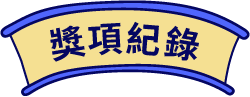
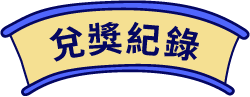
獎項紀錄>兌獎紀錄

Changed region(s): [[0.196, 0.2165, 0.504, 0.6495]]

diff --git a/record.html b/record.html
@@ -14,7 +14,7 @@
     <link rel="stylesheet" href="css/style.css">
     <link rel="stylesheet" href="css/animate-style.css">
     <link rel="stylesheet" href="css/gotop.css">
-    <title>獎項紀錄-1111週年慶│幸運一把抓</title>
+    <title>兌獎紀錄-1111週年慶│幸運一把抓</title>
 </head>
 
 <body>
@@ -57,10 +57,10 @@
                                             </a>
                                         </li>
                                         <li class="nav-item active">
-                                            <a class="nav-link" href="record.html" title="獎項紀錄" alt="獎項紀錄" style="background-image:url('images/btn-record-a.png') ;">
-                                                <span>獎項紀錄</span>
-                                                <img src="images/btn-record.png" title="獎項紀錄" alt="獎項紀錄" />
-                                                <img src="images/btn-record-h.png" title="獎項紀錄" alt="獎項紀錄" />
+                                            <a class="nav-link" href="record.html" title="兌獎紀錄" alt="兌獎紀錄" style="background-image:url('images/btn-record-a.png') ;">
+                                                <span>兌獎紀錄</span>
+                                                <img src="images/btn-record.png" title="兌獎紀錄" alt="兌獎紀錄" />
+                                                <img src="images/btn-record-h.png" title="兌獎紀錄" alt="兌獎紀錄" />
                                                 <span class="sr-only">(current)</span>
                                             </a>
                                         </li>
@@ -128,7 +128,7 @@
                     <div class="row">
                         <div class="col-12">
                             <div class="section-area record-title">
-                                <h3 class="section-title" style="background-image: url('images/title-c-00.png');">獎項紀錄</h3>
+                                <h3 class="section-title" style="background-image: url('images/title-c-00.png');">兌獎紀錄</h3>
                                 <div class="login-block">
                                     <a class="btn" href="#view" onclick="goLogin();" data-toggle="collapse" id="viewlogin" title="登入" alt="登入">立即登入查詢</a>
                                 </div>
@@ -140,7 +140,7 @@
                     <section class="row">
                         <div class="col-12">
                             <div class="section-area record-title">
-                                <h3 class="section-title" style="background-image: url('images/title-c-01.png');">獎項紀錄 公司名稱</h3>
+                                <h3 class="section-title" style="background-image: url('images/title-c-01.png');">兌獎紀錄 公司名稱</h3>
                             </div>
                             <div class="record-company">
                                 <span>1111人力銀行(全球華人股份有限公司)</span>
@@ -150,7 +150,7 @@
                     <section class="row">
                         <div class="col-12">
                             <div class="section-area record-title">
-                                <h3 class="section-title" style="background-image: url('images/title-c-02.png');">登記抽大獎 獎項紀錄</h3>
+                                <h3 class="section-title" style="background-image: url('images/title-c-02.png');">登記抽大獎 兌獎紀錄</h3>
                             </div>
                             <table class="table-area table-a">
                                 <thead>
@@ -192,7 +192,7 @@
                     <section class="row">
                         <div class="col-12">
                             <div class="section-area record-title">
-                                <h3 class="section-title" style="background-image: url('images/title-c-03.png');">選好禮 獎項紀錄</h3>
+                                <h3 class="section-title" style="background-image: url('images/title-c-03.png');">選好禮 兌獎紀錄</h3>
                             </div>
                             <table class="table-area table-b">
                                 <thead>

diff --git a/announcement.html b/announcement.html
@@ -57,10 +57,10 @@
                                             </a>
                                         </li>
                                         <li class="nav-item">
-                                            <a class="nav-link" href="record.html" title="獎項紀錄" alt="獎項紀錄" style="background-image:url('images/btn-record-a.png') ;">
-                                                <span>獎項紀錄</span>
-                                                <img src="images/btn-record.png" title="獎項紀錄" alt="獎項紀錄" />
-                                                <img src="images/btn-record-h.png" title="獎項紀錄" alt="獎項紀錄" />
+                                            <a class="nav-link" href="record.html" title="兌獎紀錄" alt="兌獎紀錄" style="background-image:url('images/btn-record-a.png') ;">
+                                                <span>兌獎紀錄</span>
+                                                <img src="images/btn-record.png" title="兌獎紀錄" alt="兌獎紀錄" />
+                                                <img src="images/btn-record-h.png" title="兌獎紀錄" alt="兌獎紀錄" />
                                             </a>
                                         </li>
                                         <li class="nav-item active">
@@ -128,7 +128,7 @@
                     <div class="row">
                         <div class="col-12">
                             <div class="section-area record-title">
-                                <h3 class="section-title" style="background-image: url('images/title-d-01.png');">登記抽大獎 獎項紀錄</h3>
+                                <h3 class="section-title" style="background-image: url('images/title-d-01.png');">得獎公告</h3>
                             </div>
                             <table class="table-area table-c">
                                 <thead>

diff --git a/product-intro-a.html b/product-intro-a.html
@@ -58,10 +58,10 @@
                                             </a>
                                         </li>
                                         <li class="nav-item">
-                                            <a class="nav-link" href="record.html" title="獎項紀錄" alt="獎項紀錄" style="background-image:url('images/btn-record-a.png') ;">
-                                                <span>獎項紀錄</span>
-                                                <img src="images/btn-record.png" title="獎項紀錄" alt="獎項紀錄" />
-                                                <img src="images/btn-record-h.png" title="獎項紀錄" alt="獎項紀錄" />
+                                            <a class="nav-link" href="record.html" title="兌獎紀錄" alt="兌獎紀錄" style="background-image:url('images/btn-record-a.png') ;">
+                                                <span>兌獎紀錄</span>
+                                                <img src="images/btn-record.png" title="兌獎紀錄" alt="兌獎紀錄" />
+                                                <img src="images/btn-record-h.png" title="兌獎紀錄" alt="兌獎紀錄" />
                                             </a>
                                         </li>
                                         <li class="nav-item">
@@ -422,7 +422,7 @@
                     </div>
                     <div class="modal-footer">
                         <a class="btn btn-secondary btn-leave" data-dismiss="modal">稍後填寫</a>
-                        <a href="record.html" class="btn register">獎項紀錄</a>
+                        <a href="record.html" class="btn register">兌獎紀錄</a>
                         <a href="record.html#recipient" class="btn exchange">填寫資料</a>
                     </div>
                 </div>

diff --git a/product-intro-b.html b/product-intro-b.html
@@ -58,10 +58,10 @@
                                             </a>
                                         </li>
                                         <li class="nav-item">
-                                            <a class="nav-link" href="record.html" title="獎項紀錄" alt="獎項紀錄" style="background-image:url('images/btn-record-a.png') ;">
-                                                <span>獎項紀錄</span>
-                                                <img src="images/btn-record.png" title="獎項紀錄" alt="獎項紀錄" />
-                                                <img src="images/btn-record-h.png" title="獎項紀錄" alt="獎項紀錄" />
+                                            <a class="nav-link" href="record.html" title="兌獎紀錄" alt="兌獎紀錄" style="background-image:url('images/btn-record-a.png') ;">
+                                                <span>兌獎紀錄</span>
+                                                <img src="images/btn-record.png" title="兌獎紀錄" alt="兌獎紀錄" />
+                                                <img src="images/btn-record-h.png" title="兌獎紀錄" alt="兌獎紀錄" />
                                             </a>
                                         </li>
                                         <li class="nav-item">
@@ -423,6 +423,7 @@
                     </div>
                     <div class="modal-footer">
                         <a class="btn btn-secondary btn-leave" data-dismiss="modal">稍後填寫</a>
+                        <a href="record.html" class="btn register">兌獎紀錄</a>
                         <a href="record.html#recipient" class="btn btn-primary">填寫資料</a>
                     </div>
                 </div>

diff --git a/awards.html b/awards.html
@@ -58,10 +58,10 @@
                                             </a>
                                         </li>
                                         <li class="nav-item">
-                                            <a class="nav-link" href="record.html" title="獎項紀錄" alt="獎項紀錄" style="background-image:url('images/btn-record-a.png') ;">
-                                                <span>獎項紀錄</span>
-                                                <img src="images/btn-record.png" title="獎項紀錄" alt="獎項紀錄" />
-                                                <img src="images/btn-record-h.png" title="獎項紀錄" alt="獎項紀錄" />
+                                            <a class="nav-link" href="record.html" title="兌獎紀錄" alt="兌獎紀錄" style="background-image:url('images/btn-record-a.png') ;">
+                                                <span>兌獎紀錄</span>
+                                                <img src="images/btn-record.png" title="兌獎紀錄" alt="兌獎紀錄" />
+                                                <img src="images/btn-record-h.png" title="兌獎紀錄" alt="兌獎紀錄" />
                                             </a>
                                         </li>
                                         <li class="nav-item">

diff --git a/directions.html b/directions.html
@@ -58,10 +58,10 @@
                                             </a>
                                         </li>
                                         <li class="nav-item">
-                                            <a class="nav-link" href="record.html" title="獎項紀錄" alt="獎項紀錄" style="background-image:url('images/btn-record-a.png') ;">
-                                                <span>獎項紀錄</span>
-                                                <img src="images/btn-record.png" title="獎項紀錄" alt="獎項紀錄" />
-                                                <img src="images/btn-record-h.png" title="獎項紀錄" alt="獎項紀錄" />
+                                            <a class="nav-link" href="record.html" title="兌獎紀錄" alt="兌獎紀錄" style="background-image:url('images/btn-record-a.png') ;">
+                                                <span>兌獎紀錄</span>
+                                                <img src="images/btn-record.png" title="兌獎紀錄" alt="兌獎紀錄" />
+                                                <img src="images/btn-record-h.png" title="兌獎紀錄" alt="兌獎紀錄" />
                                             </a>
                                         </li>
                                         <li class="nav-item">

diff --git a/index.html b/index.html
@@ -59,10 +59,10 @@
                                             </a>
                                         </li>
                                         <li class="nav-item">
-                                            <a class="nav-link" href="record.html" title="獎項紀錄" alt="獎項紀錄" style="background-image:url('images/btn-record-a.png') ;">
-                                                <span>獎項紀錄</span>
-                                                <img src="images/btn-record.png" title="獎項紀錄" alt="獎項紀錄" />
-                                                <img src="images/btn-record-h.png" title="獎項紀錄" alt="獎項紀錄" />
+                                            <a class="nav-link" href="record.html" title="兌獎紀錄" alt="兌獎紀錄" style="background-image:url('images/btn-record-a.png') ;">
+                                                <span>兌獎紀錄</span>
+                                                <img src="images/btn-record.png" title="兌獎紀錄" alt="兌獎紀錄" />
+                                                <img src="images/btn-record-h.png" title="兌獎紀錄" alt="兌獎紀錄" />
                                             </a>
                                         </li>
                                         <li class="nav-item">
